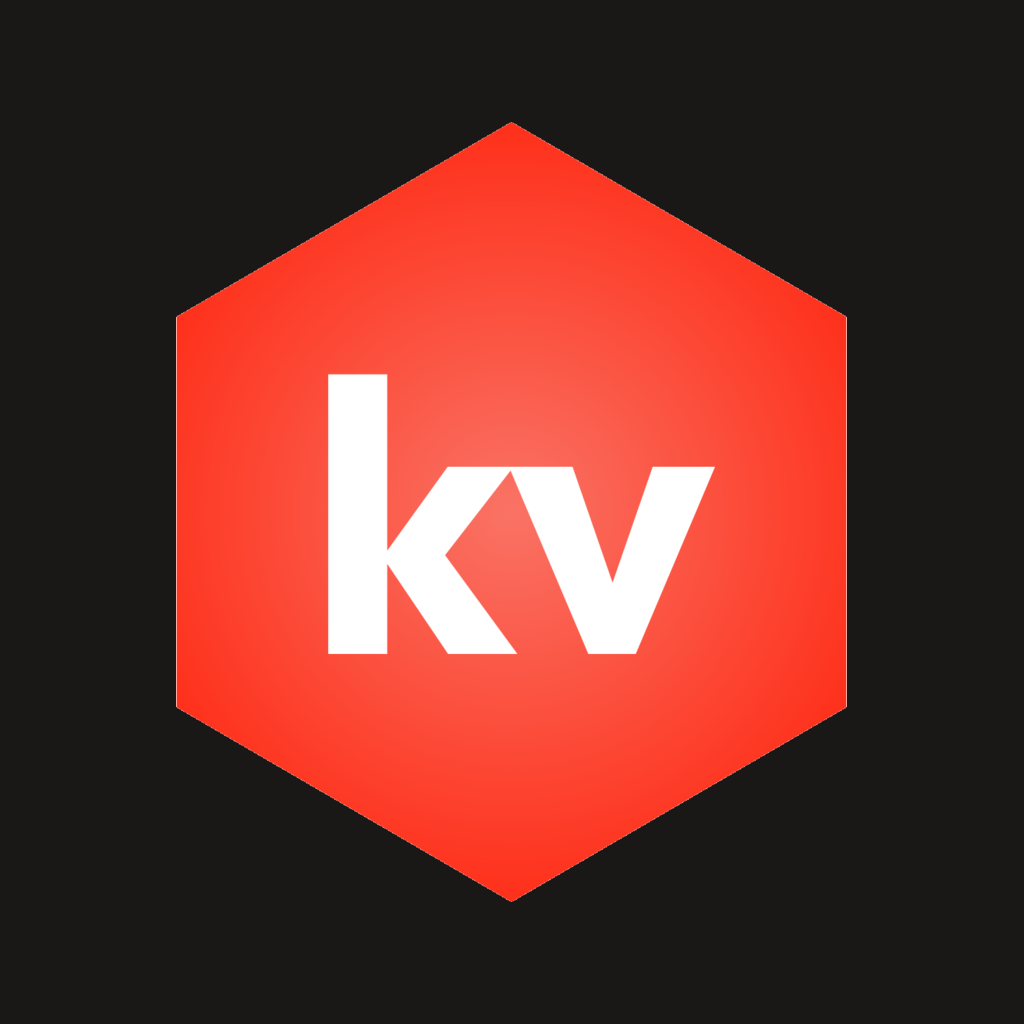
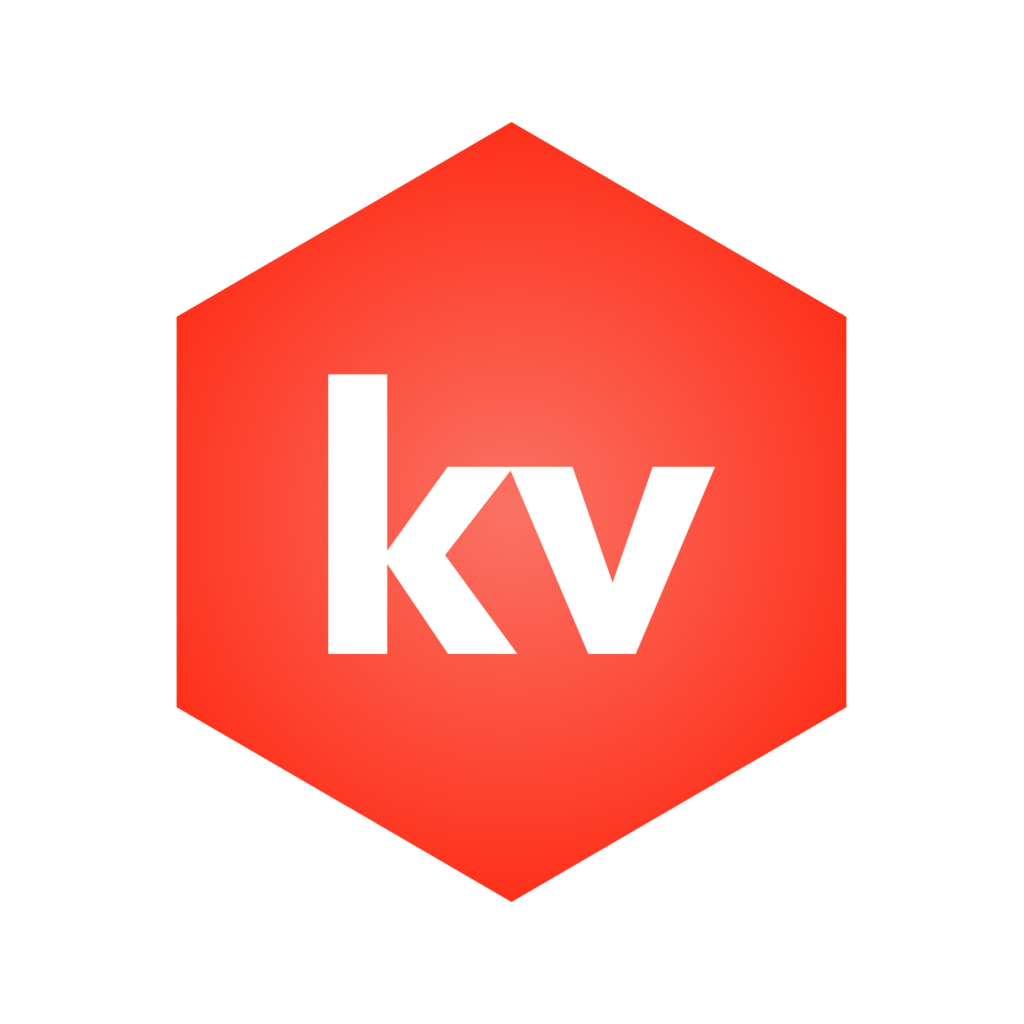
build(mobile): ikon beyaz zemine alindi, versionCode 3
Sahip Kor zeminli varyanti gorup beyaz zemini tercih etti. versionCode 3:
1 ve 2 Play'e yuklenmeye calisildi, Play kullanilmis sayiyor.

PLAN.md/TASK.md: bugunun yayin engelleyici turu ve masaustu cagri bildirimi
borcu (D61) kayda gecti.

diff --git a/TASK.md b/TASK.md
@@ -3757,9 +3757,9 @@ kapalı kalırdı. Dev bunu gizlemek yerine raporladı.
 
 ### DoD (cihazda — SAHİPTE)
 - [x] Masaüstünden paylaşılan ekran telefonda **görünüyor** (sahip doğruladı 2026-08-10)
-- [ ] Ekranın **sesi** duyuluyor — 🔴 ilk denemede gelmedi, kök neden bulundu (§3.5: web ekran
-      sesini hiç yayınlamıyordu + Chrome'un ses kutusu işaretsizdi), düzeltildi, **yeniden sınanacak**
-- [ ] Kamera + ekran aynı anda karışmıyor
+- [x] Ekranın **sesi** duyuluyor — kök neden ikiliydi: web `{ audio: true }` vermiyordu (§3.5) VE
+      Chrome'un ses kutusu varsayılan işaretsiz geliyor. İkisi de kapandı, sahip doğruladı
+- [ ] Kamera + ekran aynı anda karışmıyor (ayrıca sınanmadı, düzen kodu ayrı map kullanıyor)
 - [x] Yan çevirince yatay doluyor, geri dönünce uygulama dikey kilitli kalıyor (sahip doğruladı)
 
 ### Addendum'lar (cihaz turundan SONRA eklendi)
@@ -3769,3 +3769,32 @@ kapalı kalırdı. Dev bunu gizlemek yerine raporladı.
 - [x] §3.6 PiP paylaşılan ekranı gösteriyor — **sahip doğruladı 2026-08-10**
 - [x] Görsel rötuşlar (sahip istekleri): tam ekran düğmesi sağ altta + arka plansız, tam ekran
       kontrollerine saydam zemin, acil buton dolu kırmızı
+
+
+---
+
+## Yayın engelleyici tur — 2026-08-10 (release derlemesi canlıya karşı)
+
+> Sahip Play kapalı testine göndermeden önce release APK'sını kendi cihazına kurup CANLI sunucuya
+> bağlandı. Çekirdek akışların çoğu çalışmadı. Üçü de "geliştirmede çalışıyordu" diye kapanmış
+> sayılan işlerdi; ders hafızaya yazıldı ([[release-yapilandirmasi-sinanmali]]).
+
+- [x] 🔴 **Soket release'de hiç bağlanmıyordu** — `io(API_BASE)` prod adresindeki `/api` yolunu
+      NAMESPACE sanıyordu. Mesaj alma, arama zili, gelen arama ekranı ve DM önizlemesi bu yüzden
+      ölüydü; mesaj GÖNDERME HTTP olduğu için sorun ekranda gizlendi. Origin ayıklanıyor,
+      `connect_error` artık denenen adresi de yazıyor
+- [x] 🔴 **Yerel release derlemesi LAN adresini gömüyordu** — `eas.json` env'i yalnız EAS'ta
+      geçerli. `.env.production` eklendi, pakette doğrulandı (LAN adresi sıfır kez geçiyor)
+- [x] 🔴 **Push bildirimleri üretimde kapalıydı** — `EXPO_PUSH_ENABLED` VPS `.env.production`
+      dosyasına hiç girmemişti, `push.service.ts` gönderime başlamadan sessizce dönüyordu.
+      Bayrak açıldı, API yeniden başlatıldı, konteyner içinde doğrulandı
+- [x] Play imzalama altyapısı: kendi upload anahtarımız (depo dışı), `withReleaseSigning` config
+      plugin'i, `versionCode`, imza ve gömülü adres pakette doğrulandı
+- [x] Marka ikonları: Expo varsayılanları (mavi açılış + şablon ikonu) çıktı; altıgen Canva'daki
+      vektörden 1000 piksele büyütülüp üretildi, üç katman + açılış görseli + favicon değişti
+- [x] Çocuk güvenliği standartları sayfası canlıda (`/cocuk-guvenligi`) — Play beyan formu için
+
+### Sahip doğrulaması (cihazda, 2026-08-10)
+- [x] Mesaj, arama ve bildirimler çalışıyor
+- [x] Uygulama ikonu pakete giriyor
+- [ ] Play kapalı test sürümü yüklendi ve testçilere açıldı
